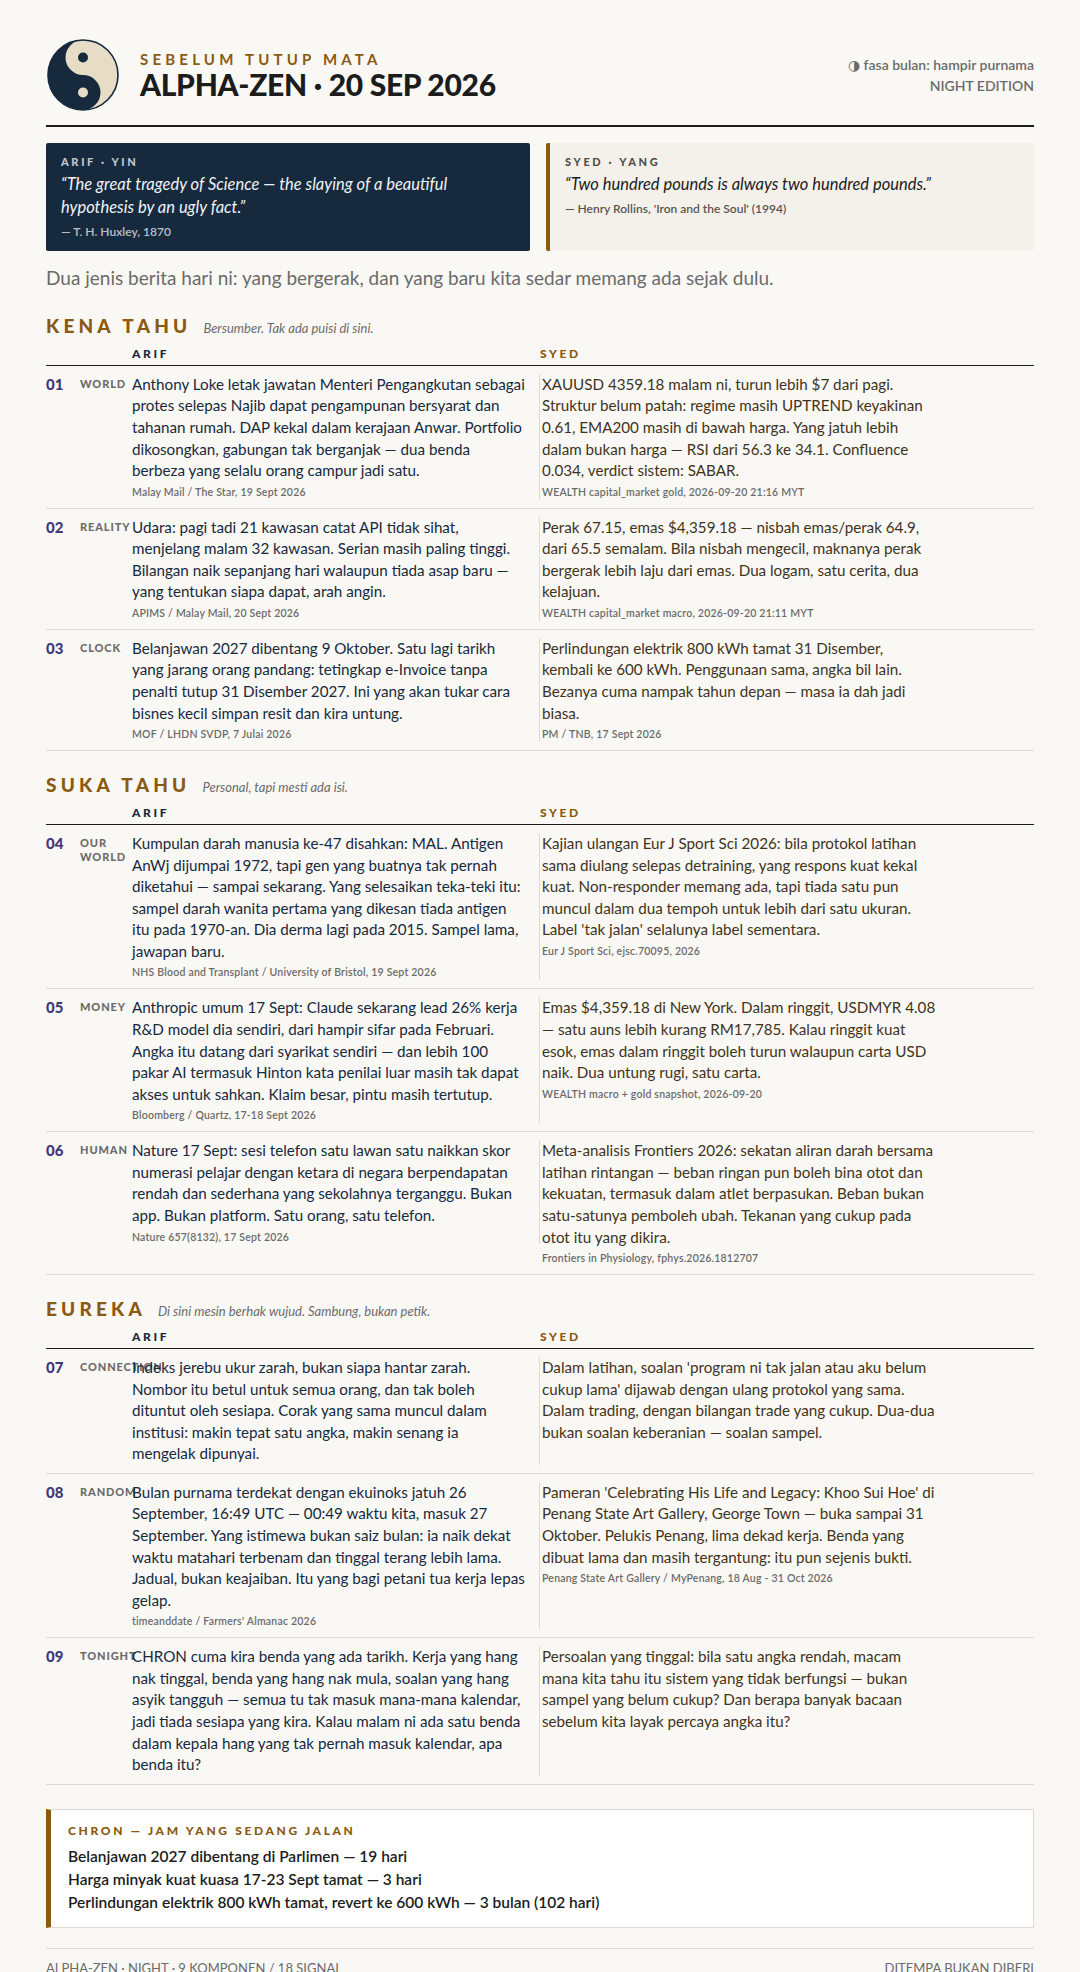
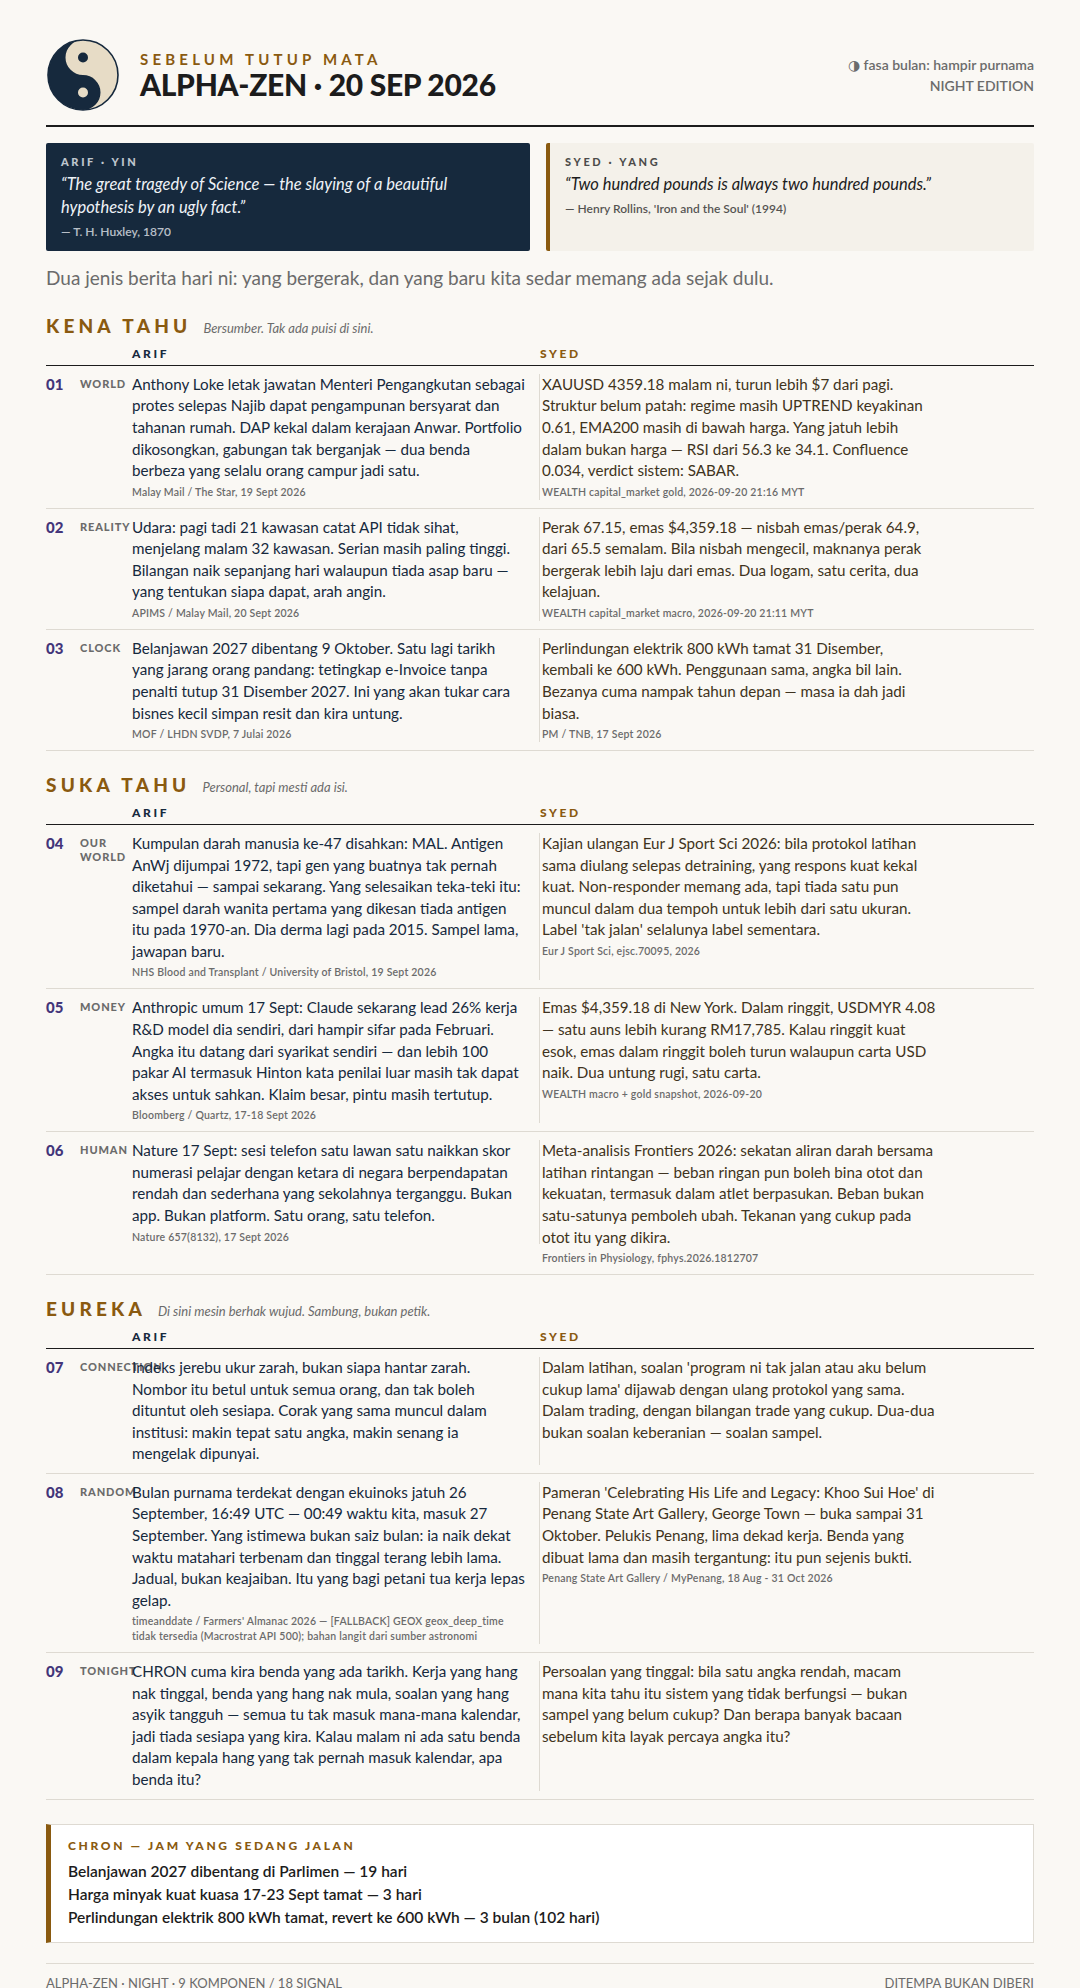
chore(gitwrap): second-pass state capture — 2026-09-20

diff --git a/forge_work/alpha-zen/night.html b/forge_work/alpha-zen/night.html
@@ -137,7 +137,7 @@ body { width:1080px; background:#faf8f4; color:#1c1c1c;
 <div class="row">
   <div class="rn">08</div>
   <div class="rl">RANDOM</div>
-  <div class="cell ca">Bulan purnama terdekat dengan ekuinoks jatuh 26 September, 16:49 UTC — 00:49 waktu kita, masuk 27 September. Yang istimewa bukan saiz bulan: ia naik dekat waktu matahari terbenam dan tinggal terang lebih lama. Jadual, bukan keajaiban. Itu yang bagi petani tua kerja lepas gelap.<span class="src">timeanddate / Farmers' Almanac 2026</span></div>
+  <div class="cell ca">Bulan purnama terdekat dengan ekuinoks jatuh 26 September, 16:49 UTC — 00:49 waktu kita, masuk 27 September. Yang istimewa bukan saiz bulan: ia naik dekat waktu matahari terbenam dan tinggal terang lebih lama. Jadual, bukan keajaiban. Itu yang bagi petani tua kerja lepas gelap.<span class="src">timeanddate / Farmers' Almanac 2026 — [FALLBACK] GEOX geox_deep_time tidak tersedia (Macrostrat API 500); bahan langit dari sumber astronomi</span></div>
   <div class="cell cs">Pameran 'Celebrating His Life and Legacy: Khoo Sui Hoe' di Penang State Art Gallery, George Town — buka sampai 31 Oktober. Pelukis Penang, lima dekad kerja. Benda yang dibuat lama dan masih tergantung: itu pun sejenis bukti.<span class="src">Penang State Art Gallery / MyPenang, 18 Aug - 31 Oct 2026</span></div>
 </div>
 <div class="row">
